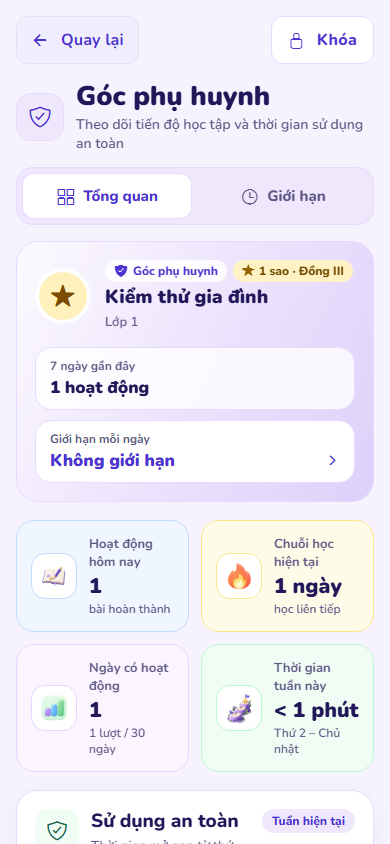
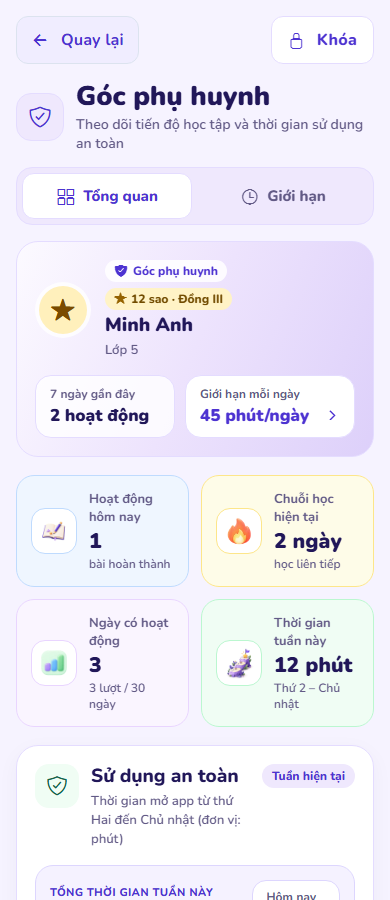
docs: present the student journey in English

diff --git a/docs/media/showcase.html b/docs/media/showcase.html
@@ -1,65 +1,46 @@
-<!doctype html>
-<html lang="en">
+<!doctype html><html lang="en">
 <head>
-  <meta charset="utf-8" />
-  <meta name="viewport" content="width=device-width, initial-scale=1" />
-  <title>MathVision Kids · Repository cover</title>
-  <style>
-    @font-face { font-family: Nunito; src: url('../../apps/student-mobile/assets/fonts/Nunito-Regular.ttf'); font-weight: 400; }
-    @font-face { font-family: Nunito; src: url('../../apps/student-mobile/assets/fonts/Nunito-ExtraBold.ttf'); font-weight: 800; }
-    @font-face { font-family: Nunito; src: url('../../apps/student-mobile/assets/fonts/Nunito-Black.ttf'); font-weight: 900; }
-    * { box-sizing: border-box; }
-    body { margin: 0; background: #F8F7FE; font-family: Nunito, sans-serif; color: #18164C; }
-    .cover { position: relative; width: 1600px; height: 860px; overflow: hidden; background: linear-gradient(118deg, #FAF9FF 0%, #F3EFFF 55%, #ECE7FF 100%); }
-    .halo { position: absolute; width: 810px; height: 810px; border-radius: 50%; background: #DAD2FF; right: -150px; top: 100px; }
-    .halo::after { content: ''; position: absolute; inset: 50px; border-radius: 50%; border: 2px solid #EDE8FF; }
-    .mint { position: absolute; width: 500px; height: 260px; background: #D9F1E8; border-radius: 50%; left: 630px; bottom: -165px; transform: rotate(-18deg); }
-    header { position: absolute; top: 60px; left: 80px; display: flex; align-items: center; gap: 18px; }
-    header img { width: 64px; height: 64px; border-radius: 18px; }
-    header strong { font-size: 31px; font-weight: 900; letter-spacing: -1px; }
-    header small { display: block; margin-top: 2px; font-size: 16px; color: #475569; }
-    .copy { position: absolute; left: 80px; top: 214px; width: 715px; }
-    .eyebrow { color: #5637C9; font-weight: 800; font-size: 18px; letter-spacing: 2.3px; margin: 0 0 22px; }
-    h1 { margin: 0; font-weight: 900; font-size: 91px; line-height: 1.08; letter-spacing: -4px; }
-    h1 span { color: #7055F6; }
-    .subtitle { font-size: 27px; line-height: 1.5; color: #475569; width: 605px; margin: 27px 0 0; }
-    .journey { display: flex; gap: 16px; margin-top: 38px; }
-    .journey span { display: flex; align-items: center; gap: 10px; padding: 12px 17px; border-radius: 16px; border: 1px solid #DDD5F5; background: #FFFFFFC9; font-size: 18px; font-weight: 800; color: #5637C9; }
-    .journey svg { width: 22px; height: 22px; fill: none; stroke: currentColor; stroke-width: 1.8; stroke-linecap: round; stroke-linejoin: round; }
-    .phone { position: absolute; background: #252143; padding: 6px; border-radius: 37px; border: 2px solid #605879; box-shadow: 0 32px 60px #36246D33, 0 2px 3px #FFFFFF; }
-    .phone img { display: block; width: 100%; height: auto; border-radius: 28px; }
-    .secondary { width: 286px; left: 894px; top: 154px; transform: rotate(-8deg); }
-    .primary { width: 328px; left: 1200px; top: 69px; transform: rotate(7deg); }
-    .mascot { position: absolute; width: 285px; left: 725px; top: 511px; filter: drop-shadow(0 15px 16px #5039A52B); }
-    .spark { position: absolute; color: #D39923; font-size: 48px; font-weight: 900; }
-    .s1 { left: 810px; top: 180px; }
-    .s2 { left: 1554px; top: 705px; font-size: 33px; }
-    footer { position: absolute; left: 80px; bottom: 64px; color: #64748B; font-size: 18px; display: flex; align-items: center; gap: 12px; }
-    footer::before { content: ''; display: block; width: 30px; height: 3px; background: #7055F6; border-radius: 2px; }
-  </style>
+<meta charset="utf-8">
+<title>MathVision Kids · Repository cover</title>
+<style>
+ @font-face{font-family:Nunito;src:url(../../apps/portal-web/public/ui/Nunito-Regular.ttf);font-weight:400}
+ @font-face{font-family:Nunito;src:url(../../apps/portal-web/public/ui/Nunito-ExtraBold.ttf);font-weight:800}
+ @font-face{font-family:Nunito;src:url(../../apps/student-mobile/assets/fonts/Nunito-Black.ttf);font-weight:900}
+ *{box-sizing:border-box}
+ body{margin:0;width:1600px;height:860px;overflow:hidden;background:radial-gradient(ellipse at 99% 88%,#e2d8ff 0%,transparent 57%),linear-gradient(113deg,#faf9ff,#f0ecfc);color:#21174c;font-family:Nunito,sans-serif}
+ .wash{position:absolute;width:824px;height:824px;left:880px;top:145px;border-radius:50%;background:linear-gradient(135deg,#e4daff,#bcadf8);opacity:.7}
+ .orbit{position:absolute;width:770px;height:770px;left:925px;top:182px;border:2px solid #ffffff68;border-radius:50%}
+ .mint{position:absolute;width:500px;height:205px;left:820px;bottom:-125px;border-radius:50%;background:#d4f4e9;transform:rotate(-12deg)}
+ .brand{position:absolute;left:83px;top:66px;display:flex;align-items:center;gap:16px;font-size:35px;font-weight:900;letter-spacing:-.8px}
+ .brand img{width:59px;height:59px}
+ .copy{position:absolute;left:83px;top:221px}
+ .eyebrow{font-size:21px;font-weight:800;letter-spacing:3.6px;color:#5a42b5;text-transform:uppercase}
+ h1{font-size:76px;font-weight:900;line-height:1.04;letter-spacing:-3.3px;margin:25px 0 30px}
+ h1 span{color:#613de4}
+ p{color:#4f486d;font-size:28px;line-height:1.45;margin:0}
+ .features{display:flex;gap:12px;margin-top:34px;font-size:18px;font-weight:800;color:#49339c}
+ .features span{display:flex;align-items:center;gap:9px;background:#fff9;border:1px solid #e0d6f9;padding:11px 15px;border-radius:12px}
+ .features span::before{content:'';width:7px;height:7px;border-radius:50%;background:#8161ef}
+ .phone{position:absolute;background:#f6f3ff;border:8px solid #282041;border-radius:40px;overflow:hidden;box-shadow:0 25px 55px #2d185f40,0 0 0 2px #786794;line-height:0}
+ .phone img{width:100%;display:block}
+ .lesson{width:265px;left:862px;top:161px;transform:rotate(-9deg)}
+ .home{width:309px;left:1168px;top:79px;transform:rotate(7deg)}
+ .mascot{position:absolute;left:735px;top:509px;width:284px;filter:drop-shadow(0 12px 18px #42327239)}
+ .spark{position:absolute;color:#b47a16;font-size:46px;font-weight:800;line-height:1}
+ .spark.one{left:805px;top:143px}
+ .spark.two{left:1503px;top:724px;font-size:37px}
+ </style>
 </head>
 <body>
-  <main class="cover" aria-label="MathVision Kids product presentation with actual app screenshots">
-    <div class="halo" aria-hidden="true"></div><div class="mint" aria-hidden="true"></div>
-    <header>
-      <img src="../../apps/student-mobile/assets/images/mathvision-icon-v2.png" alt="MathVision Kids star mascot logo" />
-      <div><strong>MathVision Kids</strong><small>Understand. Practice. Grow.</small></div>
-    </header>
-    <section class="copy">
-      <p class="eyebrow">VIETNAMESE MATH · GRADES 1–5</p>
-      <h1>Little steps.<br /><span>Big discoveries.</span></h1>
-      <p class="subtitle">From a notebook photo to clearer thinking.<br />A friendly companion for curious minds.</p>
-      <div class="journey">
-        <span><svg viewBox="0 0 24 24" aria-hidden="true"><path d="M8 5l2-2h4l2 2h4v15H4V5z"/><circle cx="12" cy="12" r="4"/></svg>Capture</span>
-        <span><svg viewBox="0 0 24 24" aria-hidden="true"><path d="M9 18h6m-6 3h6M8 15c-6-5-2-12 4-12s10 7 4 12l-1 3H9z"/></svg>Understand</span>
-        <span><svg viewBox="0 0 24 24" aria-hidden="true"><path d="M3 4c4-1 6 0 9 2 3-2 5-3 9-2v15c-4-1-7 0-9 2-2-2-5-3-9-2zM12 6v15"/></svg>Practice</span>
-      </div>
-    </section>
-    <div class="phone secondary"><img src="screenshots/guided-step-web.jpg" alt="Actual app screenshot of a guided reasoning step" /></div>
-    <div class="phone primary"><img src="screenshots/home-web.jpg" alt="Actual app screenshot of the student home" /></div>
-    <img class="mascot" src="../../apps/student-mobile/assets/illustrations/mathvision-star.png" alt="" />
-    <span class="spark s1" aria-hidden="true">✦</span><span class="spark s2" aria-hidden="true">✦</span>
-    <footer>Camera input · Vietnamese handwriting · Guided learning</footer>
-  </main>
-</body>
+ <div class="wash"></div><div class="orbit"></div><div class="mint"></div>
+ <div class="brand"><img src="../../apps/portal-web/public/favicon-robot.png" alt="">MathVision Kids</div>
+ <div class="copy"><div class="eyebrow">Vietnamese math · Grades 1–5</div>
+ <h1>Small steps.<br><span>Big discoveries.</span></h1>
+ <p>Capture a problem from your notebook.<br>Learn the reasoning, then try it yourself.</p>
+ <div class="features"><span>Capture a problem</span><span>Learn step by step</span><span>Track progress</span></div>
+ </div>
+ <div class="phone lesson"><img src="screenshots/student-lesson-current.png" alt="Student lesson screenshot"></div>
+ <div class="phone home"><img src="screenshots/student-home-current.png" alt="Student Home screenshot with the camera action"></div>
+ <img class="mascot" src="../../apps/portal-web/public/ui/robot-mascot.webp" alt="">
+ <span class="spark one">✦</span><span class="spark two">✦</span></body>
 </html>

diff --git a/README.md b/README.md
@@ -1,12 +1,12 @@
 <div align="center">
 
-![MathVision Kids — Hiểu từng bước, tự tin học Toán. Hai màn hình giới thiệu trang chủ học sinh và bài học.](docs/media/readme-hero.jpg)
+![MathVision Kids — Small steps. Big discoveries. Student Home and a completed lesson.](docs/media/readme-hero.jpg)
 
 # MathVision Kids
 
 ### From a notebook photo to a lesson the student can work through.
 
-A Vietnamese math learning app for grades 1–5. Students can photograph a problem, check the recognized text, and work through the reasoning with hints and narration. Families can follow learning activity and set time limits in Góc phụ huynh.
+A Vietnamese math learning app for grades 1–5. Students can photograph a problem, check the recognized text, and work through the reasoning with hints and narration. Families can follow learning activity and set time limits in Parent Mode.
 
 ![Expo 58](https://img.shields.io/badge/Expo-58-18164C?style=flat-square&logo=expo&logoColor=white)
 ![React Native](https://img.shields.io/badge/React_Native-0.88-7055F6?style=flat-square&logo=react&logoColor=white)
@@ -15,7 +15,7 @@ A Vietnamese math learning app for grades 1–5. Students can photograph a probl
 [![License: MIT](https://img.shields.io/badge/License-MIT-7055F6?style=flat-square)](LICENSE)
 [![Catalog Bot](https://github.com/NV-DuyManh/MathVisionKid/actions/workflows/lesson-catalog.yml/badge.svg)](https://github.com/NV-DuyManh/MathVisionKid/actions/workflows/lesson-catalog.yml)
 
-[Open MathVision Kids](https://edu.mathvision.online) · [Screenshots](#see-it-in-action) · [Run locally](#run-it-locally) · [Hướng dẫn tiếng Việt](docs/HUONG_DAN_CAI_DAT.md) · [Architecture](docs/ARCHITECTURE_LOCAL_RUNTIME.md)
+[Open MathVision Kids](https://edu.mathvision.online) · [Screenshots](#see-it-in-action) · [Run locally](#run-it-locally) · [Vietnamese setup](docs/HUONG_DAN_CAI_DAT.md) · [Architecture](docs/ARCHITECTURE_LOCAL_RUNTIME.md)
 
 </div>
 
@@ -31,34 +31,26 @@ Students can start with a photographed question, review their own handwritten so
 
 ## See it in action
 
-<p align="center">
-  <a href="docs/media/screenshots/portal-login-current.jpg"><img src="docs/media/screenshots/portal-login-current.jpg" width="860" alt="MathVision Kids web sign-in with the robot mascot, email form and Google sign-in" /></a><br />
-  <strong>Sign in to MathVision Kids</strong><br />
-  Use email and password or continue with Google on the public website.
-</p>
+### The student journey
 
 <table>
   <tr>
-    <td align="center" width="33%"><a href="docs/media/screenshots/student-lesson-current.png"><img src="docs/media/screenshots/student-lesson-current.png" width="240" alt="Student Web lesson with the original question, checked solution and narration controls" /></a><br /><strong>Work through a lesson</strong><br />Revisit the steps and listen to the explanation.</td>
-    <td align="center" width="33%"><a href="docs/media/screenshots/student-home-current.png"><img src="docs/media/screenshots/student-home-current.png" width="240" alt="Student home with the robot, camera shortcut and learning activities" /></a><br /><strong>Start on Student Home</strong><br />Capture a problem, practice, or revisit saved work.</td>
-    <td align="center" width="33%"><a href="docs/media/screenshots/parent-overview-current.png"><img src="docs/media/screenshots/parent-overview-current.png" width="240" alt="Parent overview with learning activity, streak, usage time and a limits tab" /></a><br /><strong>Góc phụ huynh</strong><br />Review progress and manage time limits.</td>
+    <td align="center" width="33%"><a href="docs/media/screenshots/student-home-current.png"><img src="docs/media/screenshots/student-home-current.png" width="230" alt="Student Home with the camera shortcut and learning activities" /></a><br /><strong>1. Start on Student Home</strong><br />Open the camera, practice by topic, or resume saved work.</td>
+    <td align="center" width="33%"><a href="docs/media/screenshots/student-photo-current.png"><img src="docs/media/screenshots/student-photo-current.png" width="230" alt="Worksheet photo with the crop and rotation controls" /></a><br /><strong>2. Prepare the photo</strong><br />Cover personal details and crop to the problem before review.</td>
+    <td align="center" width="33%"><a href="docs/media/screenshots/student-lesson-current.png"><img src="docs/media/screenshots/student-lesson-current.png" width="230" alt="Completed student lesson with the original question, answer, and narration controls" /></a><br /><strong>3. Work through the lesson</strong><br />Try the steps, check the result, and listen to the explanation.</td>
   </tr>
 </table>
 
-<details>
-<summary><strong>More screenshots: photo review, the practice library and a completed challenge</strong></summary>
+### Practice and follow progress
 
 <table>
   <tr>
-    <td align="center" width="33%"><a href="docs/media/screenshots/problem-android.png"><img src="docs/media/screenshots/problem-android.png" width="250" alt="Owner supplied Android screenshot of a photographed problem and editable transcription" /></a><br /><strong>Photo → readable problem</strong></td>
-    <td align="center" width="33%"><a href="docs/media/screenshots/lessons-web.jpg"><img src="docs/media/screenshots/lessons-web.jpg" width="250" alt="Grade five practice problems in the lesson library" /></a><br /><strong>Practice by grade</strong></td>
-    <td align="center" width="33%"><a href="docs/media/screenshots/student-challenge-current.png"><img src="docs/media/screenshots/student-challenge-current.png" width="250" alt="Completed math challenge with earned stars and the next challenge button" /></a><br /><strong>Try a short challenge</strong></td>
+    <td align="center" width="50%"><a href="docs/media/screenshots/student-challenge-current.png"><img src="docs/media/screenshots/student-challenge-current.png" width="230" alt="Completed math challenge with earned stars and the next challenge button" /></a><br /><strong>4. Try a short challenge</strong><br />Practice the skill and review the answer.</td>
+    <td align="center" width="50%"><a href="docs/media/screenshots/parent-overview-current.png"><img src="docs/media/screenshots/parent-overview-current.png" width="230" alt="Parent Mode overview with learning activity, streak, usage time, and daily limit" /></a><br /><strong>5. Review progress in Parent Mode</strong><br />See learning activity and set time limits from the student profile.</td>
   </tr>
 </table>
 
-</details>
-
-The sign-in screenshot was captured on the public website on **25 November 2026**. Student and parent screenshots show browser sessions with test data at a phone-sized viewport. The Android photo-review image was supplied by the project owner. Device frames on the cover are presentation artwork. See the [demo walkthrough](docs/DEMO_GUIDE.md).
+The screenshots show the Vietnamese app in a phone-sized browser viewport. Minh Anh is a sample profile. See the [demo walkthrough](docs/DEMO_GUIDE.md).
 
 ## From photo to learning
 
@@ -79,10 +71,10 @@ An isolated calculation can be checked arithmetically. Deciding whether an entir
 ## What is inside
 
 - **Student app:** direct camera access, photo import, crop and rotation controls, privacy masking, editable reading results, guided lessons, saved work, and learning progress.
-- **Góc phụ huynh:** open it from the student's profile to review activity and usage, or set daily and game time limits. The area is protected by a PIN, with email verification for setup and recovery where mail delivery is configured.
+- **Parent Mode:** open it from the student's profile to review activity and usage, or set daily and game time limits. The area is protected by a PIN, with email verification for setup and recovery where mail delivery is configured.
 - **Account access:** sign in with email and password or Google on Portal. Password recovery uses a verification code sent to the registered email address.
 - **Handwriting tools:** line localization, per-line Vietnamese OCR, review of uncertain readings, and optional cloud assistance.
-- **Practice library:** grade-based activities, including topics labeled Kết Nối Tri Thức and Cánh Diều. This is a practice collection, not a claim of full textbook coverage or publisher affiliation.
+- **Practice library:** browse exercises by grade and topic, then start a guided lesson from the selected problem.
 - **Teacher workspace:** classes, assignments, submission batches, and review workflows.
 - **Admin workspace:** role-based management through the business API.
 - **Catalog Bot:** reuses checked lessons and valid speech privately, with automated storage checks and a visible [GitHub Actions report](https://github.com/NV-DuyManh/MathVisionKid/actions/workflows/lesson-catalog.yml). Open `RUN_CATALOG_BOT.bat` for a read-only snapshot of this machine's catalog; see [catalog details and limits](catalog/README.md).
@@ -121,7 +113,7 @@ The local Portal also opens the shared Student interface at `http://localhost:51
 
 The root launchers have separate purposes: `RUN_MATHVISION.bat` runs the local app, `STOP_MATHVISION.bat` stops it, `RUN_CATALOG_BOT.bat` audits the lesson catalog, and `DEPLOY_WEB.bat` publishes the configured public trial. Maintenance commands live in `scripts/`; their PowerShell implementations live in `scripts/dev/`.
 
-For phone setup, development accounts, model files, and configuration, follow [English setup](docs/LOCAL_SETUP.md) or [hướng dẫn tiếng Việt](docs/HUONG_DAN_CAI_DAT.md). For errors, see [troubleshooting](docs/TROUBLESHOOTING.md).
+For phone setup, development accounts, model files, and configuration, follow [English setup](docs/LOCAL_SETUP.md) or [Vietnamese setup](docs/HUONG_DAN_CAI_DAT.md). For errors, see [troubleshooting](docs/TROUBLESHOOTING.md).
 
 ## Technology stack
 
@@ -170,7 +162,7 @@ MathVisionKid/
 
 | I want to… | Read this |
 | :--- | :--- |
-| Install and run the project | [Local setup](docs/LOCAL_SETUP.md) · [Tiếng Việt](docs/HUONG_DAN_CAI_DAT.md) |
+| Install and run the project | [Local setup](docs/LOCAL_SETUP.md) · [Vietnamese setup](docs/HUONG_DAN_CAI_DAT.md) |
 | Deploy the web workspaces | [Vercel and production setup](docs/PRODUCTION_DEPLOYMENT.md) · [API/OCR trial on your PC](docs/PC_PREVIEW_DEPLOYMENT.md) |
 | Clone on another computer or understand the shared link | [Clone and hosting behavior](docs/CLONE_AND_HOSTING.md) · [Free cloud trial](docs/FREE_CLOUD_DEPLOYMENT.md) |
 | Review the shared student website | [Student web parity and verification (local archive)](report/README.md#local-archive) (`student-web-parity-2026-10-09.md`) |

diff --git a/docs/media/README.md b/docs/media/README.md
@@ -5,12 +5,13 @@ These assets support the repository README and documentation. They contain real 
 | Asset | Capture / origin |
 | :--- | :--- |
 | `readme-hero.jpg` | 1600 × 860 cover rendered from `showcase.html` |
+| `screenshots/*-current.*` | November 2026 Student Web and Parent Mode screens. The student profile uses sample data. |
 | `screenshots/*-web.jpg` | Student web preview at 390 × 844 on 5 October 2026 |
 | `screenshots/problem-android.png` | Original Android screenshot supplied by the project owner |
 
 See [DEMO_GUIDE.md](../DEMO_GUIDE.md#screenshot-provenance) for individual screenshot context and limitations. Empty progress is an actual initial state. The completed lesson was reached through real UI interactions with the typed sample question.
 
-The cover's phone frames are decorative presentation frames. App pixels inside them are real screenshots. Existing brand assets and font files are referenced from `apps/student-mobile/assets/`; they have not been replaced or altered.
+The cover places screenshots of Student Home and a lesson in phone frames. It uses the current Portal robot and the app's Nunito fonts.
 
 ## Refreshing
 

diff --git a/docs/DEMO_GUIDE.md b/docs/DEMO_GUIDE.md
@@ -81,6 +81,6 @@ The screenshots do not establish that every device or every question works. This
 
 ## Recreate the cover
 
-Serve the repository locally, open `docs/media/showcase.html`, and capture its 1600 × 860 artwork at 100% scale after fonts and images load. The cover uses the app's existing Nunito font, purple/navy palette, star mascot, and screenshots. No generated app UI is used.
+Serve the repository locally, open `docs/media/showcase.html`, and capture its 1600 × 860 artwork at 100% scale after fonts and images load. The cover combines the robot mascot, Nunito typography, and screenshots of Student Home and a completed lesson.
 
 Keep source screenshots and provenance together when refreshing the cover. Replace screenshots after significant UI changes and recheck both the README and gallery.
